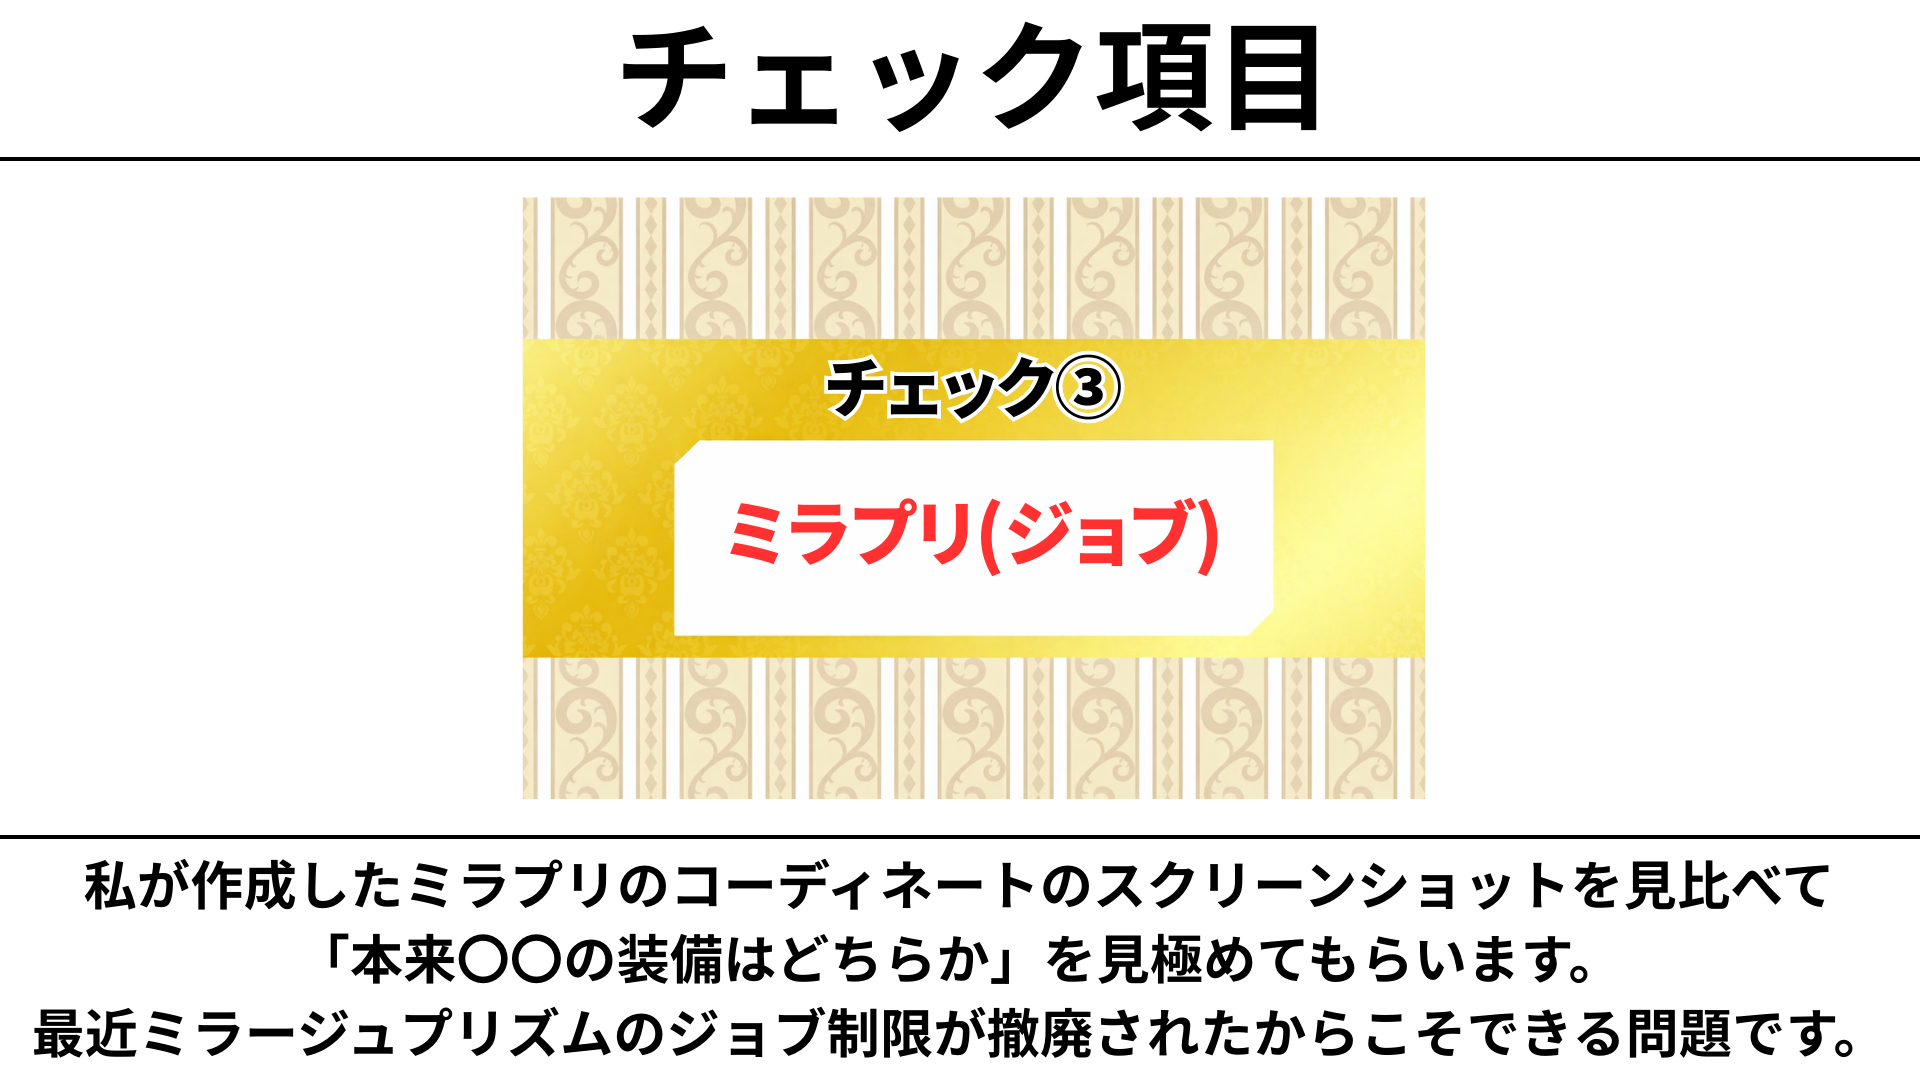
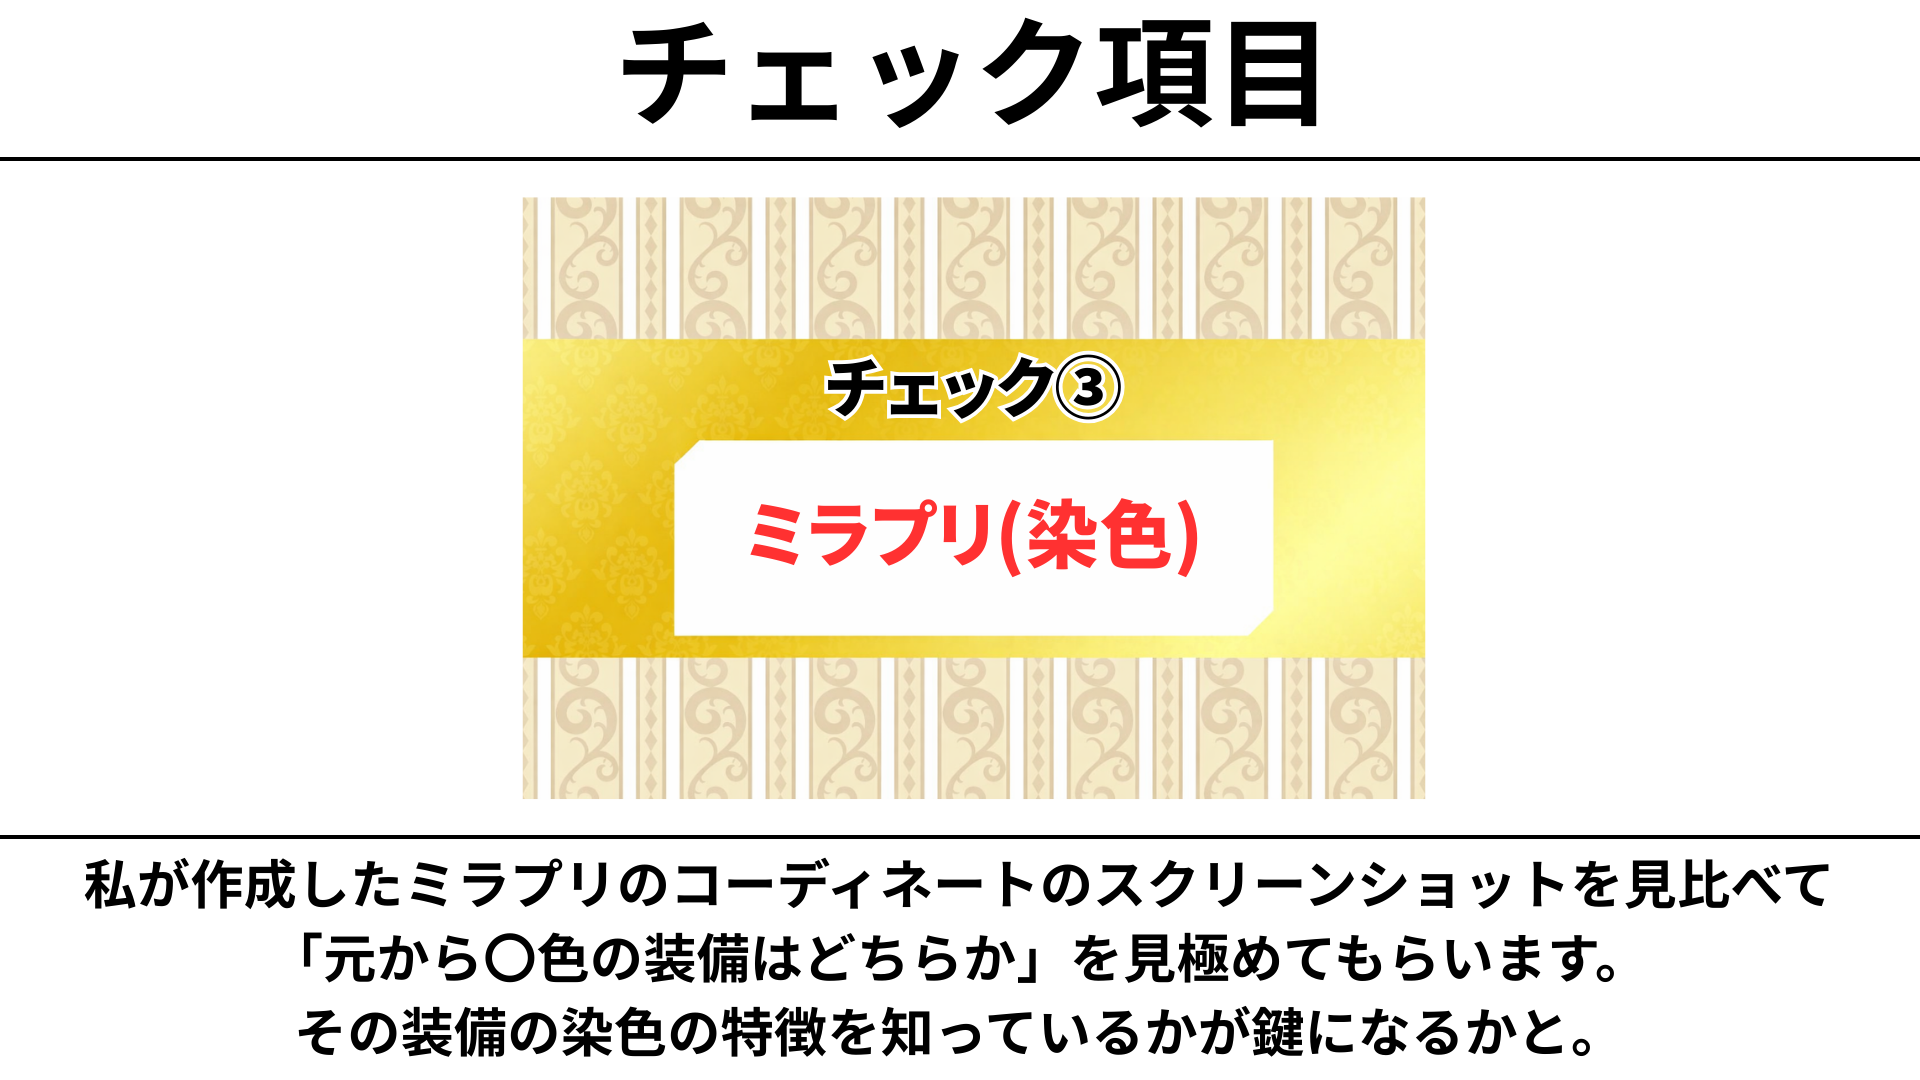
Add files via upload

diff --git a/index.html b/index.html
@@ -269,16 +269,18 @@
     <ul style="list-style: none; padding: 0; font-family: 'Segoe UI', sans-serif;">
           <div class="large">🗺風景</div>
           <img src="チェック項目１.png" alt="チェック項目" style="width:600px; margin-top: 0.5em;"><br>
-          <div class="large">👗ミラプリ(染色)</div>
+          <div class="large">💎エーテライト</div>
           <img src="チェック項目２.png" alt="チェック項目" style="width:600px; margin-top: 0.5em;"><br>
-          <div class="large">👗ミラプリ(ジョブ)</div>
+          <div class="large">👗ミラプリ(染色)</div>
           <img src="チェック項目３.png" alt="チェック項目" style="width:600px; margin-top: 0.5em;"><br>
-          <div class="large">🎶ＢＧＭ</div>
+          <div class="large">👗ミラプリ(ジョブ)</div>
           <img src="チェック項目４.png" alt="チェック項目" style="width:600px; margin-top: 0.5em;"><br>
-          <div class="large">🔍ダンジョン</div>
+          <div class="large">🎶ＢＧＭ</div>
           <img src="チェック項目５.png" alt="チェック項目" style="width:600px; margin-top: 0.5em;"><br>
-          <div class="large">⚔戦闘(スキル)</div>
+          <div class="large">🔍ダンジョン</div>
           <img src="チェック項目６.png" alt="チェック項目" style="width:600px; margin-top: 0.5em;"><br>
+          <div class="large">⚔戦闘(スキル)</div>
+          <img src="チェック項目７.png" alt="チェック項目" style="width:600px; margin-top: 0.5em;"><br>
     </ul>
   </div>
 
@@ -316,5 +318,4 @@
   </div>
 
 </body>
-
 </html>
